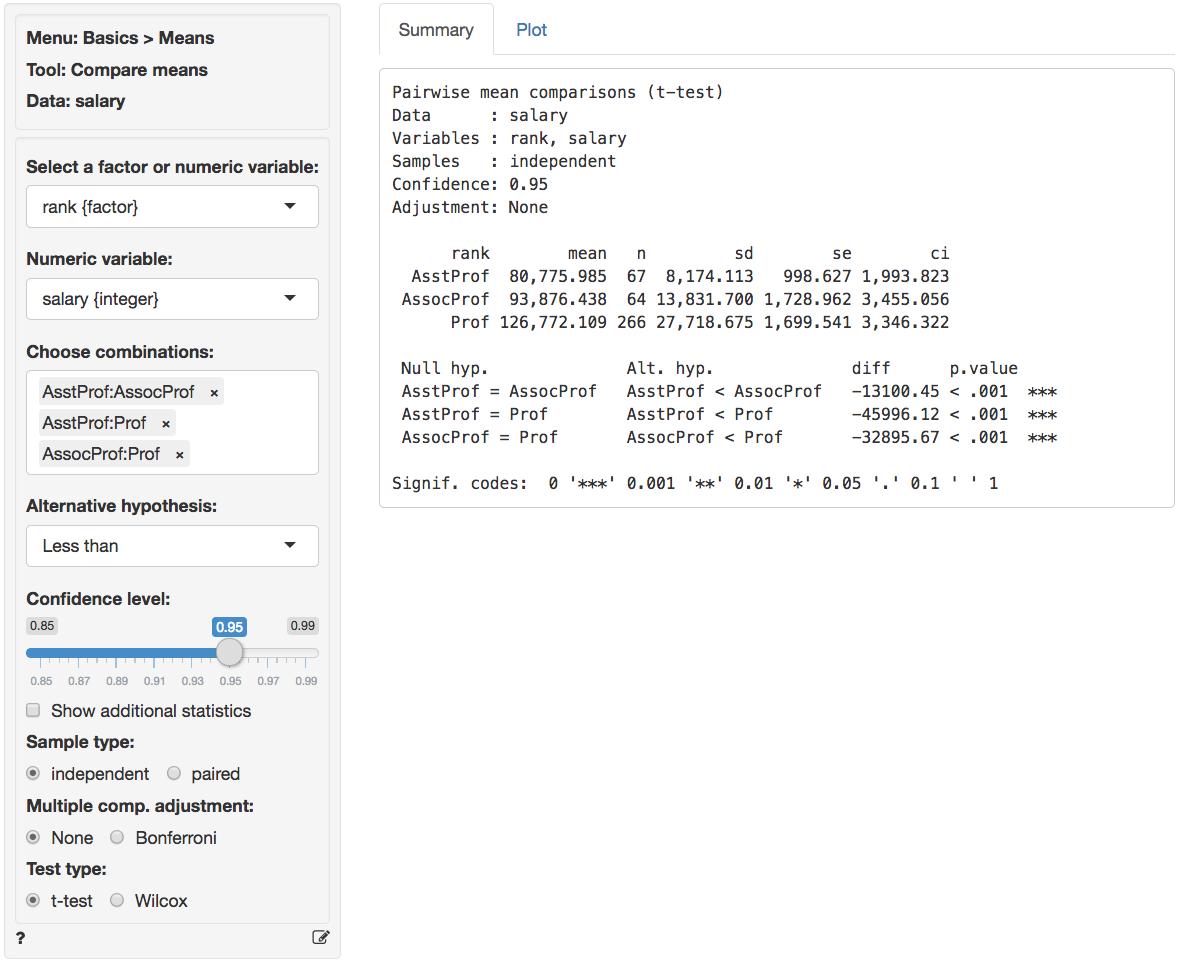
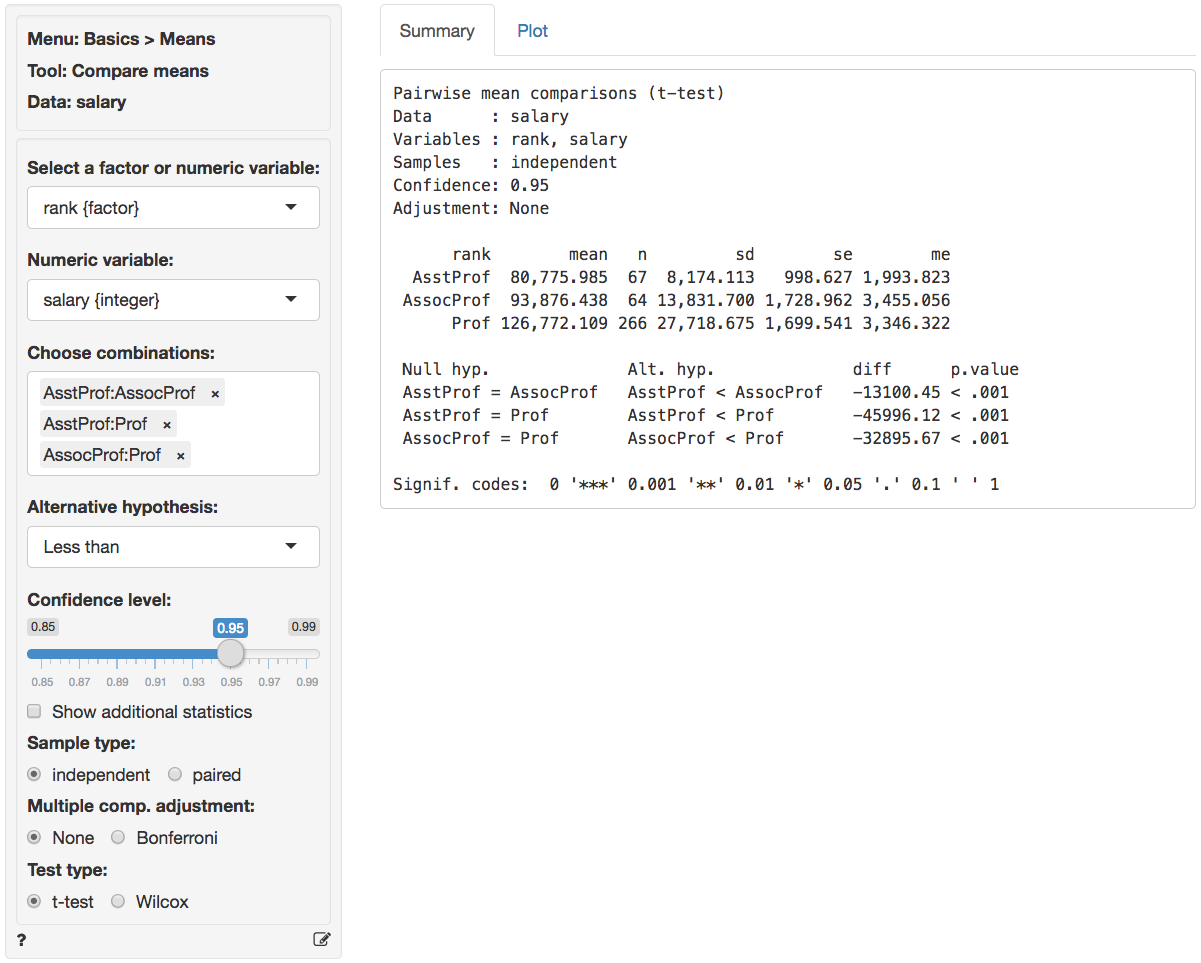
margin of error (me)
ci in summary table compare_means and compare_props should be me

diff --git a/inst/app/tools/help/compare_props.md b/inst/app/tools/help/compare_props.md
@@ -25,7 +25,26 @@ The first two blocks of output show basic information about the test (e.g.,. sel
 
 If we check `Show additional statistics` the following output is added:
 
-<p align="center"><img src="figures_basics/compare_props_summary_additional.png"></p>
+<pre>
+Pairwise proportion comparisons
+Data      : titanic 
+Variables : pclass, survived 
+Level     : Yes in survived 
+Confidence: 0.95 
+Adjustment: None 
+
+ pclass Yes  No   n     p    se    me
+    1st 179 103 282 0.635 0.029 0.056
+    2nd 115 146 261 0.441 0.031 0.060
+    3rd 131 369 500 0.262 0.020 0.039
+
+ Null hyp.   Alt. hyp.              diff  p.value chisq.value df 2.5%  97.5%    
+ 1st = 2nd   1st not equal to 2nd   0.194 < .001  20.576      1  0.112 0.277 ***
+ 1st = 3rd   1st not equal to 3rd   0.373 < .001  104.704     1  0.305 0.441 ***
+ 2nd = 3rd   2nd not equal to 3rd   0.179 < .001  25.008      1  0.107 0.250 ***
+
+Signif. codes:  0 '***' 0.001 '**' 0.01 '*' 0.05 '.' 0.1 ' ' 1
+</pre>
 
 * `chisq.value` is the chi-squared statistic associated with `diff` that we can compare to a chi-squared distribution. For additional discussion on how this metric is calculated see the help file in _Basics > Tables > Cross-tabs_. For each combination the equivalent of a 2X2 cross-tab is calculated.
 * `df` is the degrees of freedom associated with each statistical test (1).
@@ -82,4 +101,4 @@ If a plot was created it can be customized using `ggplot2` commands (e.g., `plot
 
 ### R-functions
 
-For an overview of related R-functions used by Radiant to evaluate proportions see <a href = "https://radiant-rstats.github.io/radiant.basics/reference/index.html#section-basics-proportions" target="_blank">_Basics > Proportions</a>
+For an overview of related R-functions used by Radiant to evaluate proportions see <a href = "https://radiant-rstats.github.io/radiant.basics/reference/index.html#section-basics-proportions" target="_blank">_Basics > Proportions_</a>

diff --git a/inst/app/tools/help/compare_means.md b/inst/app/tools/help/compare_means.md
@@ -29,7 +29,26 @@ The first two blocks of output show basic information about the test (e.g.,. sel
 
 If we check `Show additional statistics` the following output is added:
 
-<p align="center"><img src="figures_basics/compare_means_summary_additional.png"></p>
+<pre>
+Pairwise mean comparisons (t-test)
+Data      : salary 
+Variables : rank, salary 
+Samples   : independent 
+Confidence: 0.95 
+Adjustment: None 
+
+      rank        mean   n         sd        se        me
+  AsstProf  80,775.985  67  8,174.113   998.627 1,993.823
+ AssocProf  93,876.438  64 13,831.700 1,728.962 3,455.056
+      Prof 126,772.109 266 27,718.675 1,699.541 3,346.322
+
+ Null hyp.              Alt. hyp.              diff      p.value se       t.value df      0%   95%           
+ AsstProf = AssocProf   AsstProf < AssocProf   -13100.45 < .001  1996.639  -6.561 101.286 -Inf  -9785.958 ***
+ AsstProf = Prof        AsstProf < Prof        -45996.12 < .001  1971.217 -23.334 324.340 -Inf -42744.474 ***
+ AssocProf = Prof       AssocProf < Prof       -32895.67 < .001  2424.407 -13.569 199.325 -Inf -28889.256 ***
+
+Signif. codes:  0 '***' 0.001 '**' 0.01 '*' 0.05 '.' 0.1 ' ' 1
+</pre>
 
 * `se` is the standard error (i.e., the standard deviation of the sampling distribution of `diff`)
 * `t.value` is the _t_ statistic associated with `diff` that we can compare to a t-distribution (i.e., `diff` / `se`)
@@ -82,4 +101,4 @@ If a plot was created it can be customized using `ggplot2` commands (e.g., `plot
 
 ### R-functions
 
-For an overview of related R-functions used by Radiant to evaluate means see <a href = "https://radiant-rstats.github.io/radiant.basics/reference/index.html#section-basics-means" target="_blank">_Basics > Means</a>
+For an overview of related R-functions used by Radiant to evaluate means see <a href = "https://radiant-rstats.github.io/radiant.basics/reference/index.html#section-basics-means" target="_blank">_Basics > Means_</a>

diff --git a/NEWS.md b/NEWS.md
@@ -1,3 +1,8 @@
+# radiant.basics 0.9.7.3
+
+* `ci` in summary table `compare_means` and `compare_props` should be margin of err (`me`)
+* Option to use `Z-test` in `single_prop`
+
 # radiant.basics 0.9.7.2
 
 * Load a state file on startup by providing a (relative) file path or a url
